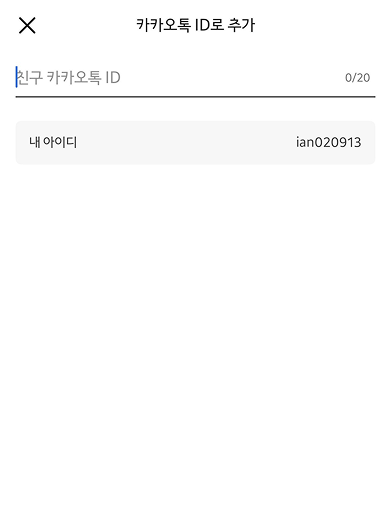
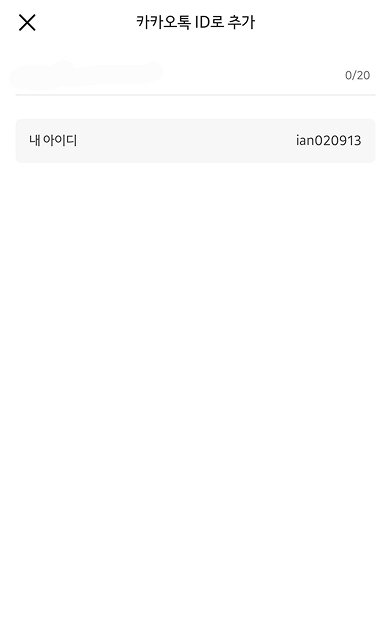
중연 : 카카오톡 친구 추가하기 (아이디) 수정 완료

diff --git a/src/pages/common/GenericLesson.jsx b/src/pages/common/GenericLesson.jsx
@@ -159,11 +159,9 @@ export default function GenericLesson({ steps = [], backPath = '/', headerTitle 
 
   useEffect(()=>{ setAnswer(''); setFeedback(''); if('speechSynthesis' in window){ window.speechSynthesis.cancel(); setSpeaking(false);} setAutoPlayed(false); const timer = setTimeout(()=>{ if('speechSynthesis' in window){ const base = (Array.isArray(current.speak) ? current.speak.join(' ') : current.speak) || current.instruction; if(base){ window.speechSynthesis.cancel(); const u = new SpeechSynthesisUtterance(base); u.lang='ko-KR'; u.rate=1; try { const pref = (localStorage.getItem('voice') || 'female'); const v = pickPreferredVoice(pref, voices); if(v) u.voice = v; } catch { /* ignore */ } u.onend=()=>{ setSpeaking(false); setAutoPlayed(true); }; u.onerror=()=>{ setSpeaking(false); setAutoPlayed(true); }; setSpeaking(true); window.speechSynthesis.speak(u); } } }, 250); return ()=> clearTimeout(timer); }, [step, current, voices]);
   // clear any leftover composition state when step changes to avoid cross-step composition artifacts
-  useEffect(()=>{ updateComp({lead:'', vowel:'', tail:''}); }, [step]);
-
   useEffect(()=>()=>{ if('speechSynthesis' in window) window.speechSynthesis.cancel(); }, []);
-  // enable keyboardVisible when the current step expects text input (has inputPlaceholder)
-  useEffect(()=>{ setKeyboardVisible(Boolean(current && current.inputPlaceholder)); }, [step, total, current]);
+  // enable keyboard when the current step expects input (has inputPlaceholder) or explicitly requests keyboard
+  useEffect(()=>{ setKeyboardVisible(Boolean(current && (current.inputPlaceholder || current.forceKeyboard))); }, [step, total, current]);
   useEffect(()=>{ if(!('speechSynthesis' in window)) return; function loadVoices(){ const list = window.speechSynthesis.getVoices(); if(list && list.length){ setVoices(list); } } loadVoices(); window.speechSynthesis.addEventListener('voiceschanged', loadVoices); return ()=> window.removeEventListener('voiceschanged', loadVoices); },[]);
 
   function pickPreferredVoice(pref, all){ if(!all || !all.length) return null; const ko = all.filter(v=> (v.lang||'').toLowerCase().startsWith('ko')); if(!ko.length) return null; const maleKeys = ['male','남','man','boy','seong','min']; const femaleKeys = ['female','여','woman','girl','yuna','ara']; const wantMale = pref === 'male'; const keys = wantMale ? maleKeys : femaleKeys; const primary = ko.find(v=> keys.some(k=> (v.name||'').toLowerCase().includes(k)) ); if(primary) return primary; return ko[ wantMale ? (ko.length>1 ? 1 : 0) : 0 ]; }
@@ -182,21 +180,21 @@ export default function GenericLesson({ steps = [], backPath = '/', headerTitle 
     try{
       const commit = getCommittedFromComp(compRef.current);
       const final = (answer + commit).trim();
-      if(current && current.inputPlaceholder && final.length){
+      if(current && (current.inputPlaceholder || current.forceKeyboard) && final.length){
         setSubmittedText(final);
       }
   } catch { /* ignore */ }
     if(step === total){ submitAnswer(); } else { next(); }
   }
 
-  // when navigating forward from a step that had inputPlaceholder, preserve the typed message
-  // commit typed input when advancing from an input step
+  // when navigating forward from a step that had inputPlaceholder OR forceKeyboard, preserve the typed message
+  // commit typed input when advancing from an input step (either placeholder or forceKeyboard-only)
   useEffect(()=>{
     const prev = lastStepRef.current;
     if(step === prev + 1){
       try{
         const prevStep = steps.find(s => s.id === prev) || {};
-        if(prevStep.inputPlaceholder){
+        if(prevStep.inputPlaceholder || prevStep.forceKeyboard){
           // compute committed composition without depending on the helper function to avoid hook deps
           const snap = compRef.current;
           const lead = snap.lead, vowel = snap.vowel, tail = snap.tail;
@@ -219,6 +217,7 @@ export default function GenericLesson({ steps = [], backPath = '/', headerTitle 
         }
       } catch { /* ignore */ }
     }
+    updateComp({lead:'', vowel:'', tail:''});
     lastStepRef.current = step;
   }, [step, answer, steps]);
 
@@ -331,8 +330,12 @@ export default function GenericLesson({ steps = [], backPath = '/', headerTitle 
                 })()
               }
               {/* allow a lesson to render custom overlay content (calendar, pickers, etc.) inside the PhoneFrame overlay */}
-              {extraOverlay}
-              {/* Render input bar when the current step expects input (has inputPlaceholder) */}
+              {typeof extraOverlay === 'function' ? (
+                extraOverlay({ step, current, answer, composePreview, submittedText })
+              ) : (
+                extraOverlay
+              )}
+              {/* Render input bar only when the current step expects input (has inputPlaceholder) */}
               {current && current.inputPlaceholder && (
                 <ChatInputBar value={answer + composePreview()} disabled={!canSubmit} onChange={(val)=>{setAnswer(val); setFeedback('');}} onSubmit={onSubmitAnswer} offsetBottom={50} offsetX={0} className={frameStyles.inputRightCenter} placeholder={current.inputPlaceholder || '메시지를 입력하세요'} readOnly={keyboardVisible} onFocus={()=>setKeyboardVisible(true)} onBlur={()=>{}} />
               )}
@@ -341,9 +344,10 @@ export default function GenericLesson({ steps = [], backPath = '/', headerTitle 
                   {submittedText}
                 </div>
               ) : null}
-              {keyboardVisible && (current && current.inputPlaceholder) && (
+              {keyboardVisible && (current && (current.inputPlaceholder || current.forceKeyboard)) && (
                 <VirtualKeyboard
                   allowEnglish={Boolean(current && current.allowEnglish)}
+                  returnLabel={(current && current.returnLabel) || undefined}
                   onKey={(ch)=>{
                     const now = Date.now();
                     if(lastKeyRef.current.ch === ch && (now - lastKeyRef.current.t) < 120) { return; }

diff --git a/src/pages/Kakao/KakaoFriendLesson.jsx b/src/pages/Kakao/KakaoFriendLesson.jsx
@@ -18,15 +18,16 @@ export default function KakaoFriendLesson(){
       3: { hidden: false, width: '280px', height: '30px', offsetY: 300, offsetX: 0, suppressInitial: false },
       // set selector: null so TapHint doesn't size itself to the target element
       // (TapHint uses the target's bounding rect when `selector` is present)
-      4: { hidden: false, selector: null, width: '25px', height: '25px', offsetY: 120, offsetX: 111, borderRadius: '50px', suppressInitial: false },
+        4: { hidden: false, selector: null, width: '50px', height: '40px', offsetY: -34, offsetX: 107, borderRadius: '12px', suppressInitial: false },
       // ensure step 5 tap hint doesn't size itself to a missing selector; force explicit size/position
       5: { selector: null, offsetY: 162, offsetX: 60, width: '130px', height: '40px', suppressInitial: false }
     };
     // render submitted text as a plain overlay on step 5 (no green bubble)
     const textOverlayConfig = {
       5: {
-        // place near the right side of the phone screen where the bubble was
-        x: '-2%',
+        // show the text typed in step 4 (capture from forceKeyboard step)
+        valueFromStep: 4,
+        x: '-4%',
         y: '12%',
         transform: 'translate(-50%, -50%)',
         width: '40%',
@@ -39,5 +40,44 @@ export default function KakaoFriendLesson(){
       }
     };
 
-  return <GenericLesson steps={steps} images={images} tapHintConfig={tapHintConfig} textOverlayConfig={textOverlayConfig} backPath="/kakao/learn" headerTitle="친구 추가하기 (아이디)" headerTagline="친구를 아이디로 추가하는 방법을 연습합니다." donePath="/kakao/learn" showSubmittedBubble={false} />;
+    // dynamic overlay: show a blinking input caret (and live text) on step 4
+    const extraOverlay = ({ step, current, answer, composePreview }) => {
+      if (step !== 4) return null;
+      const area = (current && current.focusAreas && current.focusAreas[0]) || null;
+      // Slightly move left and up from the previous position
+      const left = area ? `${area.x + -3}%` : '12%';
+      const top = area ? `${area.y + (area.h ? area.h / 2 : 0) - 40}%` : '49%';
+      const value = (answer || '') + (composePreview ? composePreview() : '');
+      return (
+        <>
+          <style>{`@keyframes kakaoCaretBlink { 0% { opacity: 1 } 50% { opacity: 0 } 100% { opacity: 1 } }`}</style>
+          <div
+            aria-hidden
+            style={{
+              position: 'absolute',
+              left,
+              top,
+              transform: 'translate(0, -50%)',
+              maxWidth: '72%',
+              color: '#111',
+              fontSize: '13px',
+              fontWeight: 400,
+              lineHeight: '1.2',
+              textAlign: 'left',
+              whiteSpace: 'pre-wrap',
+              pointerEvents: 'none',
+              zIndex: 200,
+              display: 'inline-flex',
+              alignItems: 'center',
+              gap: 6
+            }}
+          >
+            <div style={{ display: 'inline-block' }}>{value}</div>
+            <div style={{ width: 2, height: 20, background: '#111', borderRadius: 1, animation: 'kakaoCaretBlink 1s steps(1) infinite' }} />
+          </div>
+        </>
+      );
+    };
+
+  return <GenericLesson steps={steps} images={images} tapHintConfig={tapHintConfig} textOverlayConfig={textOverlayConfig} extraOverlay={extraOverlay} backPath="/kakao/learn" headerTitle="친구 추가하기 (아이디)" headerTagline="친구를 아이디로 추가하는 방법을 연습합니다." donePath="/kakao/learn" showSubmittedBubble={false} />;
 }

diff --git a/src/components/VirtualKeyboard/VirtualKeyboard.jsx b/src/components/VirtualKeyboard/VirtualKeyboard.jsx
@@ -7,7 +7,7 @@ import styles from './VirtualKeyboard.module.css';
 // - onBackspace() : called when backspace pressed
 // - onEnter() : called when return pressed
 // - className : optional
-export default function VirtualKeyboard({onKey, onBackspace, onEnter, className='', allowEnglish=false}){
+export default function VirtualKeyboard({onKey, onBackspace, onEnter, className='', allowEnglish=false, returnLabel='return'}){
   const [mode, setMode] = useState('k'); // 'k' = korean, 'n' = number, 's' = symbol, 'e' = english
   const [shift, setShift] = useState(false);
   const lastLocalRef = React.useRef({ch:null, t:0});
@@ -89,9 +89,9 @@ export default function VirtualKeyboard({onKey, onBackspace, onEnter, className=
               className={`${styles.key} ${k==='space'?styles.space:''} ${k==='return'?styles.returnKey:''} ${k==='⌫'?styles.deleteKey:''} ${k==='⇧' && shift? styles.shiftActive : ''}`}
               onPointerDown={(e)=>{ e.preventDefault(); handleKey(k); }}
               onContextMenu={(e)=>e.preventDefault()}
-              aria-label={k === 'space' ? 'space' : k}
+              aria-label={k === 'space' ? 'space' : (k === 'return' ? returnLabel : k)}
             >
-              {k === 'space' ? ' ' : k}
+              {k === 'space' ? ' ' : (k === 'return' ? returnLabel : k)}
             </button>
           ))}
         </div>

diff --git a/src/pages/Kakao/KakaoFriendLessonSteps.js b/src/pages/Kakao/KakaoFriendLessonSteps.js
@@ -25,8 +25,9 @@ const steps = [
     title: "ID 입력하기",
     instruction: "친구의 카카오톡 ID를 입력해보세요.",
     focusAreas: [{ x: 6, y: 46, w: 88, h: 10, pill: true }],
-    inputPlaceholder: "메시지를 입력하세요",
     allowEnglish: true,
+    forceKeyboard: true,
+    returnLabel: "검색",
     speak: "친구의 카카오톡 ID를 입력해보세요.",
   },
   {
